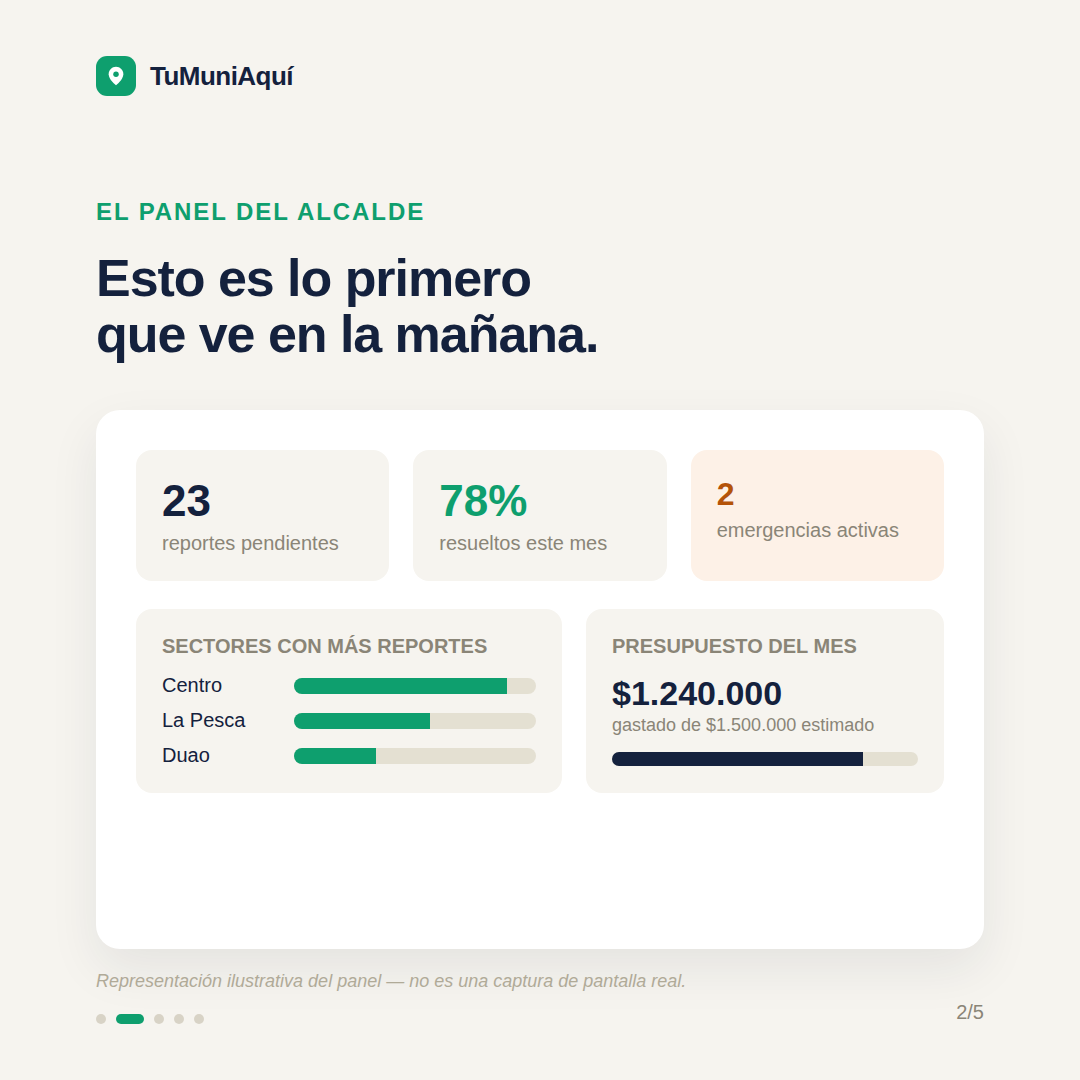
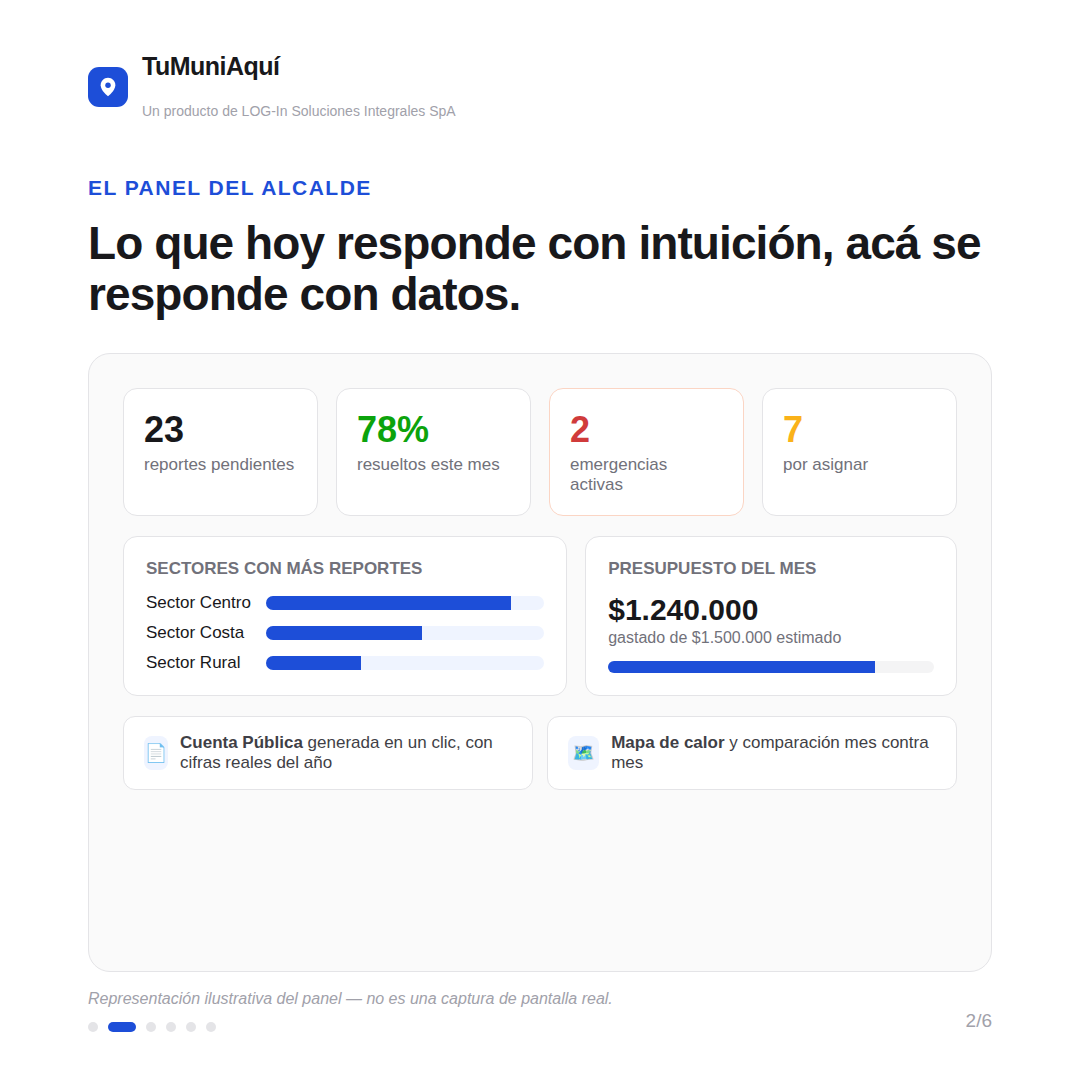
Rehace el carrusel B2G: sin nombrar al municipio, sin gratis, colores reales
Reconstruye las 6 imagenes con la paleta real del codigo (azul
#1D4ED8/#1E3A8A, grises zinc y colores de estado de src/index.css) en
vez de una paleta inventada. Quita toda referencia a Licanten y a
piloto gratuito del contenido publico, agrega una slide nueva con las
cinco funciones de IA ya en produccion (con su costo real), y suma la
mencion a LOG-In Soluciones Integrales SpA y el correo de contacto en
el cierre.

Claude-Session: https://claude.ai/code/session_01K7ey2KBWdHJRsmJYwApp9N

diff --git a/docs/CONTENIDO-RRSS-B2G.md b/docs/CONTENIDO-RRSS-B2G.md
@@ -76,29 +76,31 @@ Esto es exactamente lo que ya filmas en cada reunión presencial (Minuto 3-8).
 La diferencia es que aquí queda grabado una vez y sirve para todos los alcaldes
 que todavía no has visitado.
 
-### 3. El caso real — "Licantén ya lo usa"
-**Formato**: carrusel de LinkedIn/Facebook (4-5 imágenes) o video de 20 seg.
+### 3. El caso real — "ya lo usa un municipio"
+**Formato**: carrusel de LinkedIn/Facebook (6 imágenes) o video de 20 seg.
 
-**Ya armado**: `docs/carrusel-b2g/slide1.png` a `slide5.png`, 1080x1080, listo para subir
-directo. Antes de publicarlo: en `slide5.png` reemplaza `[tu correo]` y `[tu teléfono]`
-por tus datos reales (quedaron como placeholder a propósito). Y `slide2.png` es una
-maqueta ilustrativa del panel, no una captura real — lo dice el pie de foto chico, pero
-si prefieres una captura de pantalla real del panel, tendrías que tomarla tú mismo desde
-el tenant demo (desde estas sesiones no se puede abrir el sitio en producción, es el muro
-de red descrito en `CLAUDE.md`).
+**Ya armado**: `docs/carrusel-b2g/slide1.png` a `slide6.png`, 1080x1080, listo para subir
+directo, con la paleta real del código (`src/utils/tema.js` / `src/index.css`: azul
+`#1D4ED8`/`#1E3A8A`, grises zinc, colores de estado), sin nombrar la municipalidad
+cliente y sin ofrecer nada gratis. `slide2.png` es una maqueta ilustrativa del panel, no
+una captura real — lo dice el pie de foto chico; si prefieres una captura real, te toca
+tomarla tú desde el tenant demo (desde estas sesiones no se puede abrir el sitio en
+producción, es el muro de red descrito en `CLAUDE.md`).
 
 Esto es lo más fuerte que tienes y todavía no lo usas: **tienes un cliente real,
-no un prototipo**. El contenido:
+no un prototipo** — sin necesidad de nombrarlo para que pese. El contenido:
 
-- Imagen 1: "Licantén (Región del Maule) puso esto en producción en agosto de
-  2026."
-- Imagen 2: captura del panel del Alcalde (demo, por volumen) con los tres
-  números — pendiente, dónde, cuánto cuesta.
-- Imagen 3: "El vecino reporta en 30 segundos y recibe WhatsApp automático
-  cuando entra su reporte y cuando se resuelve."
-- Imagen 4: "Se contrata por Compra Ágil (bajo 100 UTM), sin licitación. 60
-  días de garantía con devolución íntegra."
-- Imagen 5 (cierre): tu contacto.
+1. Portada: "Ya está funcionando en un municipio real" (Región del Maule, sin nombrar la
+   comuna) + marca TuMuniAquí + "Un producto de LOG-In Soluciones Integrales SpA".
+2. Panel del alcalde (maqueta ilustrativa): pendientes, % resuelto, emergencias, por
+   asignar, sectores con más reportes, presupuesto, Cuenta Pública en un clic.
+3. Las cinco funciones de IA ya en producción, con el costo real aproximado
+   (~$5.000/mes para 100 reportes, pago por uso).
+4. El flujo del vecino en 3 pasos + el WhatsApp automático.
+5. Los cuatro argumentos de compra pública: Compra Ágil, garantía de 60 días, sin cobro
+   por volumen, IA sin suscripción aparte.
+6. Cierre: marca + LOG-In Soluciones Integrales SpA + CTA de demostración (no de piloto
+   gratuito) + `contacto.luisgonzaleznunez@log-in.cl`.
 
 **Ojo con lo que no puedes decir todavía** (misma tabla de
 `PAUTA-REUNION-ALCALDE.md`, sección "NO prometer"): no muestres ni insinúes la
@@ -107,7 +109,10 @@ implementados en producción. Lo que sí puedes prometer con nombre y fecha son
 los dos avisos por WhatsApp al vecino (entra el reporte / se resuelve), porque
 están funcionando y verificados.
 
-### 4. El testimonio — pídeselo al Alcalde de Licantén
+**Tampoco ofrezcas piloto gratuito ni "sin costo" en el contenido público** — la
+llamada a la acción es pedir una demostración, no regalar el uso.
+
+### 4. El testimonio — pídeselo al alcalde del municipio cliente
 **Formato**: 15-20 seg, grabado por él con su propio celular (igual que el
 punto 7 de `KIT-DIFUSION.md`, pero apuntado a otros alcaldes, no a sus vecinos).
 
@@ -120,7 +125,9 @@ plantilla:
 > que contármelo."
 
 Un audio de WhatsApp de 30 segundos también sirve como cita para un post de
-LinkedIn ("Así lo describe el Alcalde de Licantén: …"), sin necesidad de video.
+LinkedIn ("Así lo describe el alcalde de nuestro primer municipio cliente: …"),
+sin necesidad de video ni de nombrar la comuna — a menos que el municipio autorice
+expresamente aparecer identificado.
 
 ## Dónde publicar
 

diff --git a/RETOMAR-AQUI.md b/RETOMAR-AQUI.md
@@ -45,7 +45,7 @@ Los textos de WhatsApp son de **un solo municipio**: las plantillas dicen "Munic
 - **`docs/PAUTA-REUNION-ALCALDE.md`** — guion de 20 minutos con tiempos, frases textuales, objeciones y links en orden. **Probado y ganado el 11-ago con el Alcalde de Licantén.** La idea que lo ordena: al Alcalde no se le vende una app para vecinos, se le vende su panel de control.
 - **`docs/KIT-DIFUSION.md`** — material de la semana 5 listo para que publique la municipalidad: afiche con QR, publicaciones de Facebook, mensaje para juntas de vecinos, cartel del mesón, guion de radio y video del Alcalde.
 - **`docs/PROPUESTA-COMERCIAL-NOTAS.md`** sección 1 — lo que la propuesta promete y todavía no se puede cumplir. Leerla antes de enviarla.
-- **`docs/CONTENIDO-RRSS-B2G.md`** (27-ago) — a diferencia del kit de arriba, que es para que Licantén se lo publique a sus vecinos, este es para la cuenta de TuMuniAquí como producto, dirigido a otros alcaldes. Explica cómo grabar la demo sin salir en cámara (captura de pantalla, no cara) y da cuatro guiones listos: el gancho de las 3 preguntas, la demo del WhatsApp en vivo, el caso real de Licantén, y el testimonio del Alcalde.
+- **`docs/CONTENIDO-RRSS-B2G.md`** (27-ago) — a diferencia del kit de arriba, que es para que la municipalidad se lo publique a sus vecinos, este es para la cuenta de TuMuniAquí como producto, dirigido a otros alcaldes. Explica cómo grabar la demo sin salir en cámara (captura de pantalla, no cara) y da cuatro guiones listos: el gancho de las 3 preguntas, la demo del WhatsApp en vivo, el caso real (sin nombrar la municipalidad cliente), y el testimonio del Alcalde. Incluye el carrusel ya armado en `docs/carrusel-b2g/` (6 imágenes, paleta real de la marca, sin ofrecer piloto gratuito, con el correo de contacto y la mención a LOG-In Soluciones Integrales SpA).
 
 **Cuentas**: `contacto@alcaldelicanten.com` abre Licantén real (6 reportes). El correo personal (`luis.ogonzalez.30@gmail.com`) abre el tenant **demo**, que quedó preparado para presentaciones (§43): 101 reportes, 3 sectores, calificaciones, y el nombre "Municipalidad de Licantén (demostración)". Desde el 11-ago el demo además tiene el mapa bien centrado sobre el pueblo y **sin RUT ni teléfonos de personas reales** (§43.1, §43.2).
 
